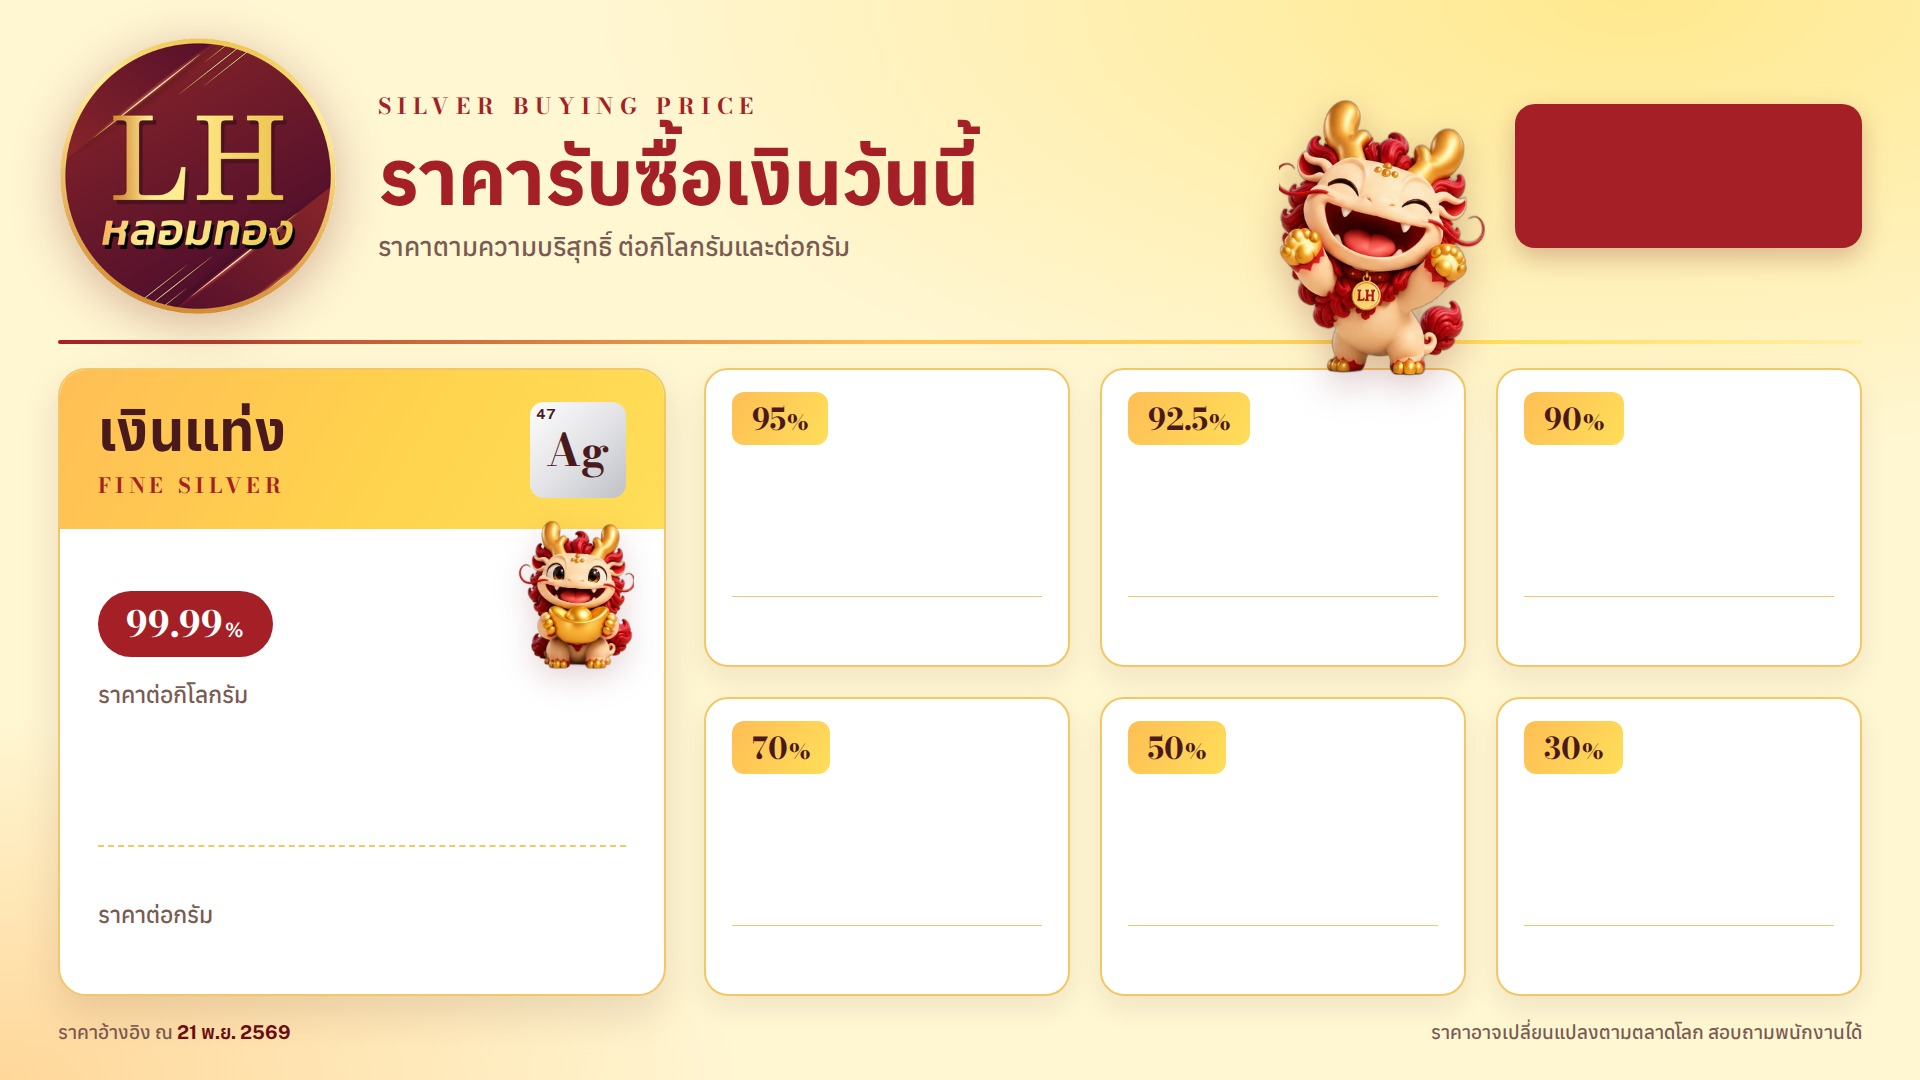
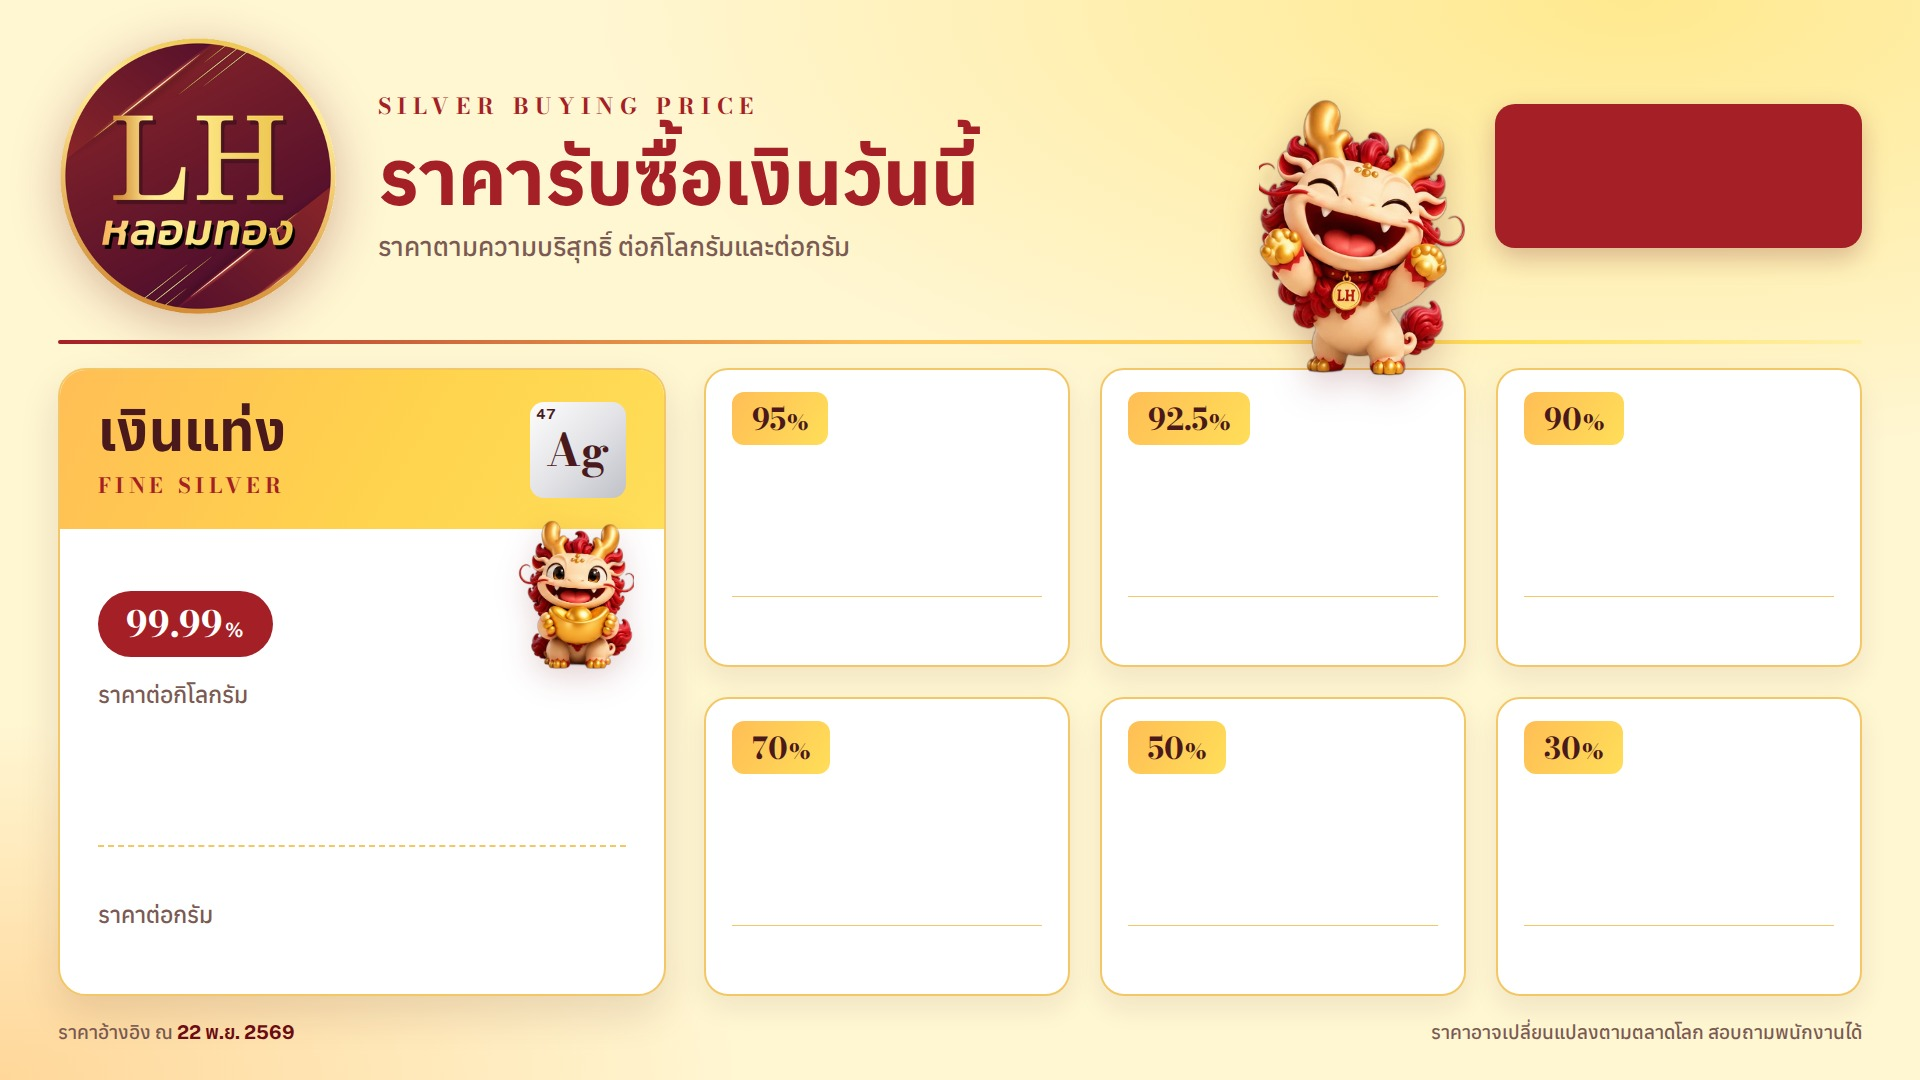
Update prices 2026-11-22

Changed region(s): [[0.6562, 0.0917, 0.8125, 0.3667], [0.0938, 0.9472, 0.1562, 0.9778]]

diff --git a/board.html b/board.html
@@ -302,8 +302,8 @@ html{-webkit-text-size-adjust:100%;text-size-adjust:100%}
      ราคาแต่ละเกรด = ราคาเงินหลังหัก × เปอร์เซ็นต์ (99.99% ใช้ราคาเต็ม)
    showSilver = เปิด/ปิดหน้าราคาเงิน, rotateSeconds = เปลี่ยนหน้าทุกกี่วินาที */
 const CONFIG = {
-  asOf: "21 พ.ย. 2569",
-  fx: 33.94,
+  asOf: "22 พ.ย. 2569",
+  fx: 33.92,
   discount: 0.20,
   rotateSeconds: 15,
   showSilver: true,
